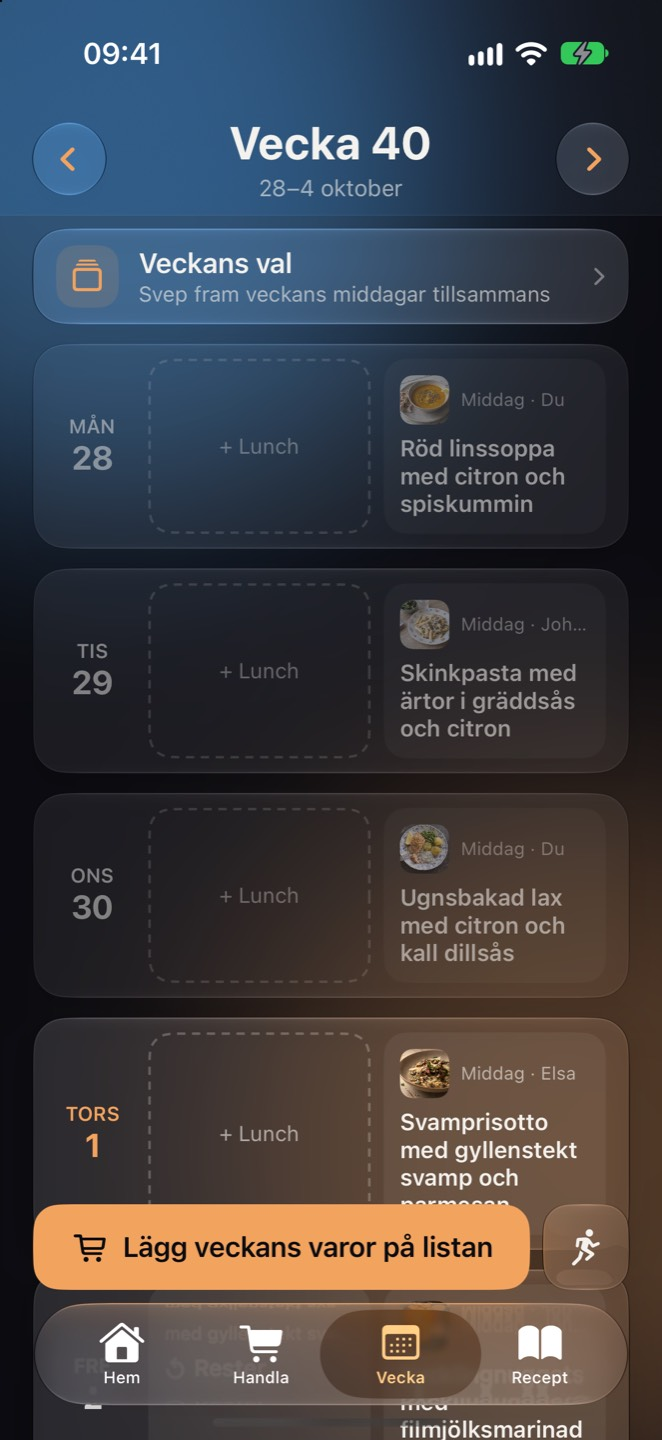
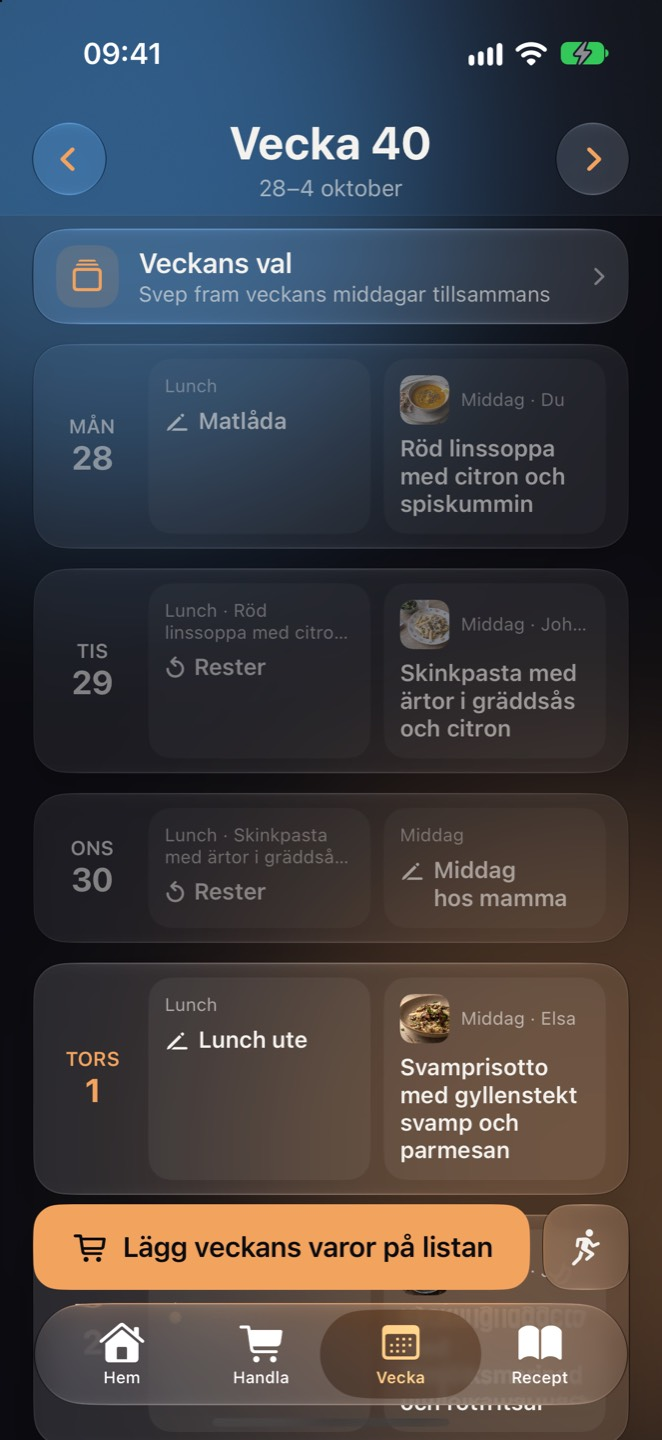
Luncher och rester i veckobilden

diff --git a/style.css b/style.css
@@ -1,1 +1,1 @@
-:root{color-scheme: dark;--ground: #0B0B10;--text: #F4F2EE;--text-2: rgba(244,242,238,0.66);--text-3: rgba(244,242,238,0.42);--accent: #F2A35E;--warm: #F2A35E;--cool: #5EAAF2;--green: #7ED4A6;--pink: #E88AB0;--glass: rgba(255,255,255,0.06);--glass-edge: rgba(255,255,255,0.12);--tone-a: var(--warm);--tone-b: var(--cool);--radius: 26px;--ease: cubic-bezier(.2,.8,.2,1)}*{box-sizing: border-box}html{scroll-behavior: smooth}body{margin: 0;background: var(--ground);color: var(--text);font: 17px/1.55 -apple-system,BlinkMacSystemFont,"SF Pro Text",Inter,"Segoe UI",system-ui,sans-serif;-webkit-font-smoothing: antialiased}html,body{overflow-x: hidden;overflow-x: clip}.hero,.split,.closing{overflow-x: clip}img{display: block;max-width: 100%;height: auto}a{color: inherit}h1,h2,h3{font-family: -apple-system,BlinkMacSystemFont,"SF Pro Display",Inter,system-ui,sans-serif;letter-spacing: -0.025em;margin: 0}.ambient{position: fixed;inset: -20vmax;z-index: -1;pointer-events: none;filter: blur(90px);opacity: .55}.ambient span{position: absolute;width: 60vmax;height: 60vmax;border-radius: 50%;transition: background 1.2s var(--ease);animation: drift 26s ease-in-out infinite alternate}.ambient span:nth-child(1){left: 0;top: 0;background: radial-gradient(closest-side,var(--tone-a),transparent)}.ambient span:nth-child(2){right: 0;bottom: 0;background: radial-gradient(closest-side,var(--tone-b),transparent);animation-delay: -13s;opacity: .7}@keyframes drift{to{transform: translate(8vmax,6vmax) scale(1.08)}}body[data-tone="cool"]{--tone-a: var(--cool);--tone-b: var(--warm)}body[data-tone="green"]{--tone-a: var(--green);--tone-b: var(--cool)}body[data-tone="pink"]{--tone-a: var(--pink);--tone-b: var(--warm)}.nav{position: fixed;top: 12px;left: 50%;transform: translateX(-50%);z-index: 10;width: min(1080px,calc(100% - 24px));display: flex;align-items: center;gap: 20px;padding: 10px 10px 10px 16px;border-radius: 22px;background: rgba(20,20,28,0.55);border: 1px solid var(--glass-edge);backdrop-filter: blur(24px) saturate(1.4);-webkit-backdrop-filter: blur(24px) saturate(1.4)}.nav .brand{display: flex;align-items: center;gap: 10px;font-weight: 700;font-size: 19px;text-decoration: none;letter-spacing: -0.02em}.brand-mark{width: 32px;height: 32px;border-radius: 10px;display: grid;place-items: center;background: rgba(242,163,94,0.18);border: 1px solid rgba(242,163,94,0.35);color: var(--accent)}.nav .links{display: flex;gap: 22px;margin-left: auto;font-size: 15px;color: var(--text-2)}.nav .links a{text-decoration: none;transition: color .2s}.nav .links a:hover{color: var(--text)}.nav .progress{position: absolute;left: 18px;right: 18px;bottom: -1px;height: 2px;border-radius: 2px;background: var(--accent);transform-origin: left;transform: scaleX(var(--progress,0));opacity: .8}.pill{display: inline-flex;align-items: center;gap: 8px;padding: 10px 18px;border-radius: 999px;font-weight: 600;font-size: 15px;text-decoration: none;white-space: nowrap}.pill.primary{background: var(--accent);color: var(--ground)}.pill.ghost{background: var(--glass);border: 1px solid var(--glass-edge);color: var(--text)}@media (max-width: 720px){.nav .links{display: none}.nav .pill{margin-left: auto}}@media (max-width: 360px){.nav{gap: 10px}.nav .pill{padding: 9px 14px;font-size: 14px}.nav .pill .more{display: none}}.hero{min-height: 100svh;display: grid;grid-template-columns: 1.05fr 1fr;align-items: center;gap: 40px;max-width: 1180px;margin: 0 auto;padding: 120px 24px 60px}.hero-copy{position: relative;z-index: 4}.eyebrow{color: var(--accent);font-weight: 600;font-size: 14px;letter-spacing: .14em;text-transform: uppercase}.hero h1{font-size: clamp(42px,5.6vw,80px);line-height: 1.02;margin: 18px 0 22px}.grad{background: linear-gradient(100deg,var(--warm),var(--pink) 55%,var(--cool));-webkit-background-clip: text;background-clip: text;color: transparent}.lead{font-size: clamp(18px,1.6vw,21px);color: var(--text-2);max-width: 30em;margin: 0 0 32px}.actions{display: flex;flex-wrap: wrap;gap: 12px}.actions .pill{padding: 14px 22px;font-size: 16px}.soon{cursor: default}.soon svg{width: 18px;height: 18px}.stage{position: relative;height: min(720px,78svh);perspective: 1400px}.stage .phone{position: absolute;top: 50%;left: 50%;width: min(300px,38vw);transform-style: preserve-3d;will-change: transform}.stage .phone.center{z-index: 3}.stage .phone.left,.stage .phone.right{z-index: 2;filter: brightness(.82)}@media (max-width: 900px){.hero{grid-template-columns: 1fr;text-align: left;padding-top: 110px}.stage{height: 560px}.stage .phone{width: 230px}}.phone{border-radius: 15.5% / 7.2%;padding: 3.2%;background: linear-gradient(145deg,#2a2a33,#111117 40%,#1d1d24);box-shadow: 0 40px 80px -20px rgba(0,0,0,.7),0 0 0 1px rgba(255,255,255,.08) inset,0 0 0 1px rgba(0,0,0,.6)}.phone img{display: block;width: 100%;height: auto;aspect-ratio: 662 / 1440;object-fit: cover;border-radius: 13% / 6%;background: #16161c}.phone picture{display: block}.strip{padding: 40px 0 20px;overflow: hidden}.strip .row{display: flex;gap: 16px;width: max-content;animation: slide 60s linear infinite}.strip .row + .row{margin-top: 16px;animation-direction: reverse;animation-duration: 70s}.strip img{width: 220px;height: 160px;object-fit: cover;border-radius: 22px}@keyframes slide{to{transform: translateX(-50%)}}.strip:hover .row{animation-play-state: paused}.caption{text-align: center;color: var(--text-3);font-size: 15px;margin-top: 22px}@media (max-width: 720px){.strip img{width: 160px;height: 120px;border-radius: 18px}}.statement{max-width: 1000px;margin: 0 auto;padding: 18vh 24px}.statement p{font-size: clamp(32px,4.6vw,60px);line-height: 1.12;font-weight: 700;letter-spacing: -0.025em;margin: 0}.statement .w{opacity: .16;transition: opacity .35s linear}.statement .w.on{opacity: 1}.statement .w.hl.on{color: var(--accent)}.story{position: relative;display: grid;grid-template-columns: 1fr 1fr;gap: 60px;max-width: 1120px;margin: 0 auto;padding: 0 24px}.story-phone{position: sticky;top: 0;height: 100svh;display: grid;place-items: center}.story-phone .phone{position: relative;width: min(320px,30vw,calc((100svh - 150px) * 0.46));margin-top: 40px}.story-phone .screens{position: relative}.story-phone .screens>*{display: block;opacity: 0;transform: scale(.96) translateY(10px);transition: opacity .6s var(--ease),transform .8s var(--ease)}.story-phone .screens>*:not(:first-child){position: absolute;inset: 0}.story-phone .screens>.active{opacity: 1;transform: none}.step{min-height: 100svh;display: flex;flex-direction: column;justify-content: center;padding: 10vh 0}.step .num{font-variant-numeric: tabular-nums;color: var(--accent);font-weight: 700;font-size: 15px;letter-spacing: .1em}.step h2{font-size: clamp(34px,4vw,52px);line-height: 1.05;margin: 12px 0 18px}.step p{color: var(--text-2);font-size: 19px;max-width: 26em;margin: 0}.step .tags{display: flex;flex-wrap: wrap;gap: 8px;margin-top: 24px}.step .tags span{padding: 7px 14px;border-radius: 999px;font-size: 14px;background: var(--glass);border: 1px solid var(--glass-edge);color: var(--text-2)}.step .inline{display: none}.step{opacity: .25;transition: opacity .5s var(--ease)}.step.active{opacity: 1}@media (max-width: 900px){.story{grid-template-columns: 1fr;gap: 0}.story-phone{display: none}.step{min-height: auto;padding: 60px 0;opacity: 1}.step .inline{display: block;width: min(300px,78vw);margin: 36px auto 0}}.split{display: grid;grid-template-columns: 1fr 1fr;align-items: center;gap: 60px;max-width: 1120px;margin: 0 auto;padding: 16vh 24px}.split h2{font-size: clamp(36px,4.4vw,58px);line-height: 1.04;margin: 14px 0 20px}.split p{color: var(--text-2);font-size: 19px;margin: 0 0 14px;max-width: 26em}.split .visual{position: relative;display: grid;place-items: center}.split .visual .phone{width: min(320px,70vw);transform: rotate(-4deg)}.chip{position: absolute;padding: 10px 16px;border-radius: 999px;font-weight: 600;font-size: 15px;background: rgba(30,30,40,.7);border: 1px solid var(--glass-edge);backdrop-filter: blur(16px);-webkit-backdrop-filter: blur(16px);white-space: nowrap}.chip.c1{top: 14%;left: 2%}.chip.c2{top: 46%;right: 0;color: var(--accent)}.chip.c3{bottom: 12%;left: 6%}@media (max-width: 900px){.split{grid-template-columns: 1fr;padding: 10vh 24px}.split .visual{order: -1;margin-bottom: 20px}}.values{max-width: 1120px;margin: 0 auto;padding: 8vh 24px 14vh}.values h2{font-size: clamp(32px,3.6vw,46px);text-align: center;margin-bottom: 44px}.grid{display: grid;grid-template-columns: repeat(4,1fr);gap: 16px}.card{padding: 26px;border-radius: var(--radius);background: var(--glass);border: 1px solid var(--glass-edge);backdrop-filter: blur(20px);-webkit-backdrop-filter: blur(20px);transition: transform .4s var(--ease),border-color .4s}.card:hover{transform: translateY(-4px);border-color: rgba(242,163,94,.35)}.card .icon{width: 44px;height: 44px;border-radius: 14px;display: grid;place-items: center;background: rgba(242,163,94,.14);color: var(--accent);margin-bottom: 18px}.card .icon svg{width: 22px;height: 22px}.card h3{font-size: 19px;margin-bottom: 8px;letter-spacing: -0.01em}.card p{margin: 0;color: var(--text-2);font-size: 15px}@media (max-width: 900px){.grid{grid-template-columns: 1fr 1fr}}@media (max-width: 560px){.grid{grid-template-columns: 1fr}}.closing{text-align: center;padding: 10vh 24px 16vh;max-width: 820px;margin: 0 auto}.closing .mark{width: 84px;height: 84px;border-radius: 26px;margin: 0 auto 28px;display: grid;place-items: center;color: var(--accent);background: linear-gradient(160deg,rgba(242,163,94,.35),rgba(242,163,94,.08));border: 1px solid rgba(242,163,94,.4);box-shadow: 0 20px 60px -10px rgba(242,163,94,.35)}.closing .mark svg{width: 40px;height: 40px}.closing h2{font-size: clamp(40px,6vw,76px);line-height: 1.02;margin-bottom: 20px}.closing p{color: var(--text-2);font-size: 19px;margin: 0 auto 30px;max-width: 32em}.closing .contact{color: var(--text);font-weight: 600;overflow-wrap: anywhere}footer{border-top: 1px solid rgba(255,255,255,.08);padding: 32px 24px 48px}footer .inner{max-width: 1120px;margin: 0 auto;display: flex;flex-wrap: wrap;gap: 16px 28px;align-items: center;color: var(--text-3);font-size: 14px}footer a{text-decoration: none;color: var(--text-2)}footer a:hover{color: var(--text)}footer .spacer{flex: 1}[data-reveal]{opacity: 0;transform: translateY(28px);transition: opacity .9s var(--ease),transform .9s var(--ease);transition-delay: var(--delay,0s)}[data-reveal].in{opacity: 1;transform: none}.legal{max-width: 720px;margin: 0 auto;padding: 130px 24px 90px;color: rgba(244,242,238,0.8)}.legal h1{font-size: clamp(36px,5vw,52px);color: var(--text);margin-bottom: 8px}.legal .date{color: var(--text-3);margin: 0 0 28px}.legal h2{font-size: 22px;color: var(--text);margin: 40px 0 10px;letter-spacing: -0.01em}.legal strong{color: var(--text)}.legal a{color: var(--accent)}.legal ul{padding-left: 1.2em}.legal li{margin: 8px 0}@media (prefers-reduced-motion: reduce){*,*::before,*::after{animation: none !important;transition: none !important}[data-reveal]{opacity: 1;transform: none}.statement .w{opacity: 1}}
+:root{color-scheme: dark;--ground: #0B0B10;--text: #F4F2EE;--text-2: rgba(244,242,238,0.66);--text-3: rgba(244,242,238,0.42);--accent: #F2A35E;--warm: #F2A35E;--cool: #5EAAF2;--green: #7ED4A6;--pink: #E88AB0;--glass: rgba(255,255,255,0.06);--glass-edge: rgba(255,255,255,0.12);--tone-a: var(--warm);--tone-b: var(--cool);--radius: 26px;--ease: cubic-bezier(.2,.8,.2,1)}*{box-sizing: border-box}html{scroll-behavior: smooth}body{margin: 0;background: var(--ground);color: var(--text);font: 17px/1.55 -apple-system,BlinkMacSystemFont,"SF Pro Text",Inter,"Segoe UI",system-ui,sans-serif;-webkit-font-smoothing: antialiased}html,body{overflow-x: hidden;overflow-x: clip}.hero,.split,.closing{overflow-x: clip}img{display: block;max-width: 100%;height: auto}a{color: inherit}h1,h2,h3{font-family: -apple-system,BlinkMacSystemFont,"SF Pro Display",Inter,system-ui,sans-serif;letter-spacing: -0.025em;margin: 0}.ambient{position: fixed;inset: -20vmax;z-index: -1;pointer-events: none;filter: blur(90px);opacity: .55}.ambient span{position: absolute;width: 60vmax;height: 60vmax;border-radius: 50%;transition: background 1.2s var(--ease);animation: drift 26s ease-in-out infinite alternate}.ambient span:nth-child(1){left: 0;top: 0;background: radial-gradient(closest-side,var(--tone-a),transparent)}.ambient span:nth-child(2){right: 0;bottom: 0;background: radial-gradient(closest-side,var(--tone-b),transparent);animation-delay: -13s;opacity: .7}@keyframes drift{to{transform: translate(8vmax,6vmax) scale(1.08)}}body[data-tone="cool"]{--tone-a: var(--cool);--tone-b: var(--warm)}body[data-tone="green"]{--tone-a: var(--green);--tone-b: var(--cool)}body[data-tone="pink"]{--tone-a: var(--pink);--tone-b: var(--warm)}.nav{position: fixed;top: 12px;left: 50%;transform: translateX(-50%);z-index: 10;width: min(1080px,calc(100% - 24px));display: flex;align-items: center;gap: 20px;padding: 10px 10px 10px 16px;border-radius: 22px;background: rgba(20,20,28,0.55);border: 1px solid var(--glass-edge);backdrop-filter: blur(24px) saturate(1.4);-webkit-backdrop-filter: blur(24px) saturate(1.4)}.nav .brand{display: flex;align-items: center;gap: 10px;font-weight: 700;font-size: 19px;text-decoration: none;letter-spacing: -0.02em}.brand-mark{width: 32px;height: 32px;border-radius: 10px;display: grid;place-items: center;background: rgba(242,163,94,0.18);border: 1px solid rgba(242,163,94,0.35);color: var(--accent)}.nav .links{display: flex;gap: 22px;margin-left: auto;font-size: 15px;color: var(--text-2)}.nav .links a{text-decoration: none;transition: color .2s}.nav .links a:hover{color: var(--text)}.nav .progress{position: absolute;left: 18px;right: 18px;bottom: -1px;height: 2px;border-radius: 2px;background: var(--accent);transform-origin: left;transform: scaleX(var(--progress,0));opacity: .8}.pill{display: inline-flex;align-items: center;gap: 8px;padding: 10px 18px;border-radius: 999px;font-weight: 600;font-size: 15px;text-decoration: none;white-space: nowrap}.pill.primary{background: var(--accent);color: var(--ground)}.pill.ghost{background: var(--glass);border: 1px solid var(--glass-edge);color: var(--text)}.nav .pill{gap: .28em}@media (max-width: 720px){.nav .links{display: none}.nav .pill{margin-left: auto}}@media (max-width: 360px){.nav{gap: 10px}.nav .pill{padding: 9px 14px;font-size: 14px}.nav .pill .more{display: none}}.hero{min-height: 100svh;display: grid;grid-template-columns: 1.05fr 1fr;align-items: center;gap: 40px;max-width: 1180px;margin: 0 auto;padding: 120px 24px 60px}.hero-copy{position: relative;z-index: 4}.eyebrow{color: var(--accent);font-weight: 600;font-size: 14px;letter-spacing: .14em;text-transform: uppercase}.hero h1{font-size: clamp(42px,5.6vw,80px);line-height: 1.02;margin: 18px 0 22px}.grad{background: linear-gradient(100deg,var(--warm),var(--pink) 55%,var(--cool));-webkit-background-clip: text;background-clip: text;color: transparent}.lead{font-size: clamp(18px,1.6vw,21px);color: var(--text-2);max-width: 30em;margin: 0 0 32px}.actions{display: flex;flex-wrap: wrap;gap: 12px}.actions .pill{padding: 14px 22px;font-size: 16px}.soon{cursor: default}.soon svg{width: 18px;height: 18px}.stage{position: relative;height: min(720px,78svh);perspective: 1400px}.stage .phone{position: absolute;top: 50%;left: 50%;width: min(300px,38vw);transform-style: preserve-3d;will-change: transform}.stage .phone.center{z-index: 3}.stage .phone.left,.stage .phone.right{z-index: 2;filter: brightness(.82)}@media (max-width: 900px){.hero{grid-template-columns: 1fr;text-align: left;padding-top: 110px}.stage{height: 560px}.stage .phone{width: 230px}}.phone{border-radius: 15.5% / 7.2%;padding: 3.2%;background: linear-gradient(145deg,#2a2a33,#111117 40%,#1d1d24);box-shadow: 0 40px 80px -20px rgba(0,0,0,.7),0 0 0 1px rgba(255,255,255,.08) inset,0 0 0 1px rgba(0,0,0,.6)}.phone img{display: block;width: 100%;height: auto;aspect-ratio: 662 / 1440;object-fit: cover;border-radius: 13% / 6%;background: #16161c}.phone picture{display: block}.strip{padding: 40px 0 20px;overflow: hidden}.strip .row{display: flex;gap: 16px;width: max-content;animation: slide 60s linear infinite}.strip .row + .row{margin-top: 16px;animation-direction: reverse;animation-duration: 70s}.strip img{width: 220px;height: 160px;object-fit: cover;border-radius: 22px}@keyframes slide{to{transform: translateX(-50%)}}.strip:hover .row{animation-play-state: paused}.caption{text-align: center;color: var(--text-3);font-size: 15px;margin-top: 22px}@media (max-width: 720px){.strip img{width: 160px;height: 120px;border-radius: 18px}}.statement{max-width: 1000px;margin: 0 auto;padding: 18vh 24px}.statement p{font-size: clamp(32px,4.6vw,60px);line-height: 1.12;font-weight: 700;letter-spacing: -0.025em;margin: 0}.statement .w{opacity: .16;transition: opacity .35s linear}.statement .w.on{opacity: 1}.statement .w.hl.on{color: var(--accent)}.story{position: relative;display: grid;grid-template-columns: 1fr 1fr;gap: 60px;max-width: 1120px;margin: 0 auto;padding: 0 24px}.story-phone{position: sticky;top: 0;height: 100svh;display: grid;place-items: center}.story-phone .phone{position: relative;width: min(320px,30vw,calc((100svh - 150px) * 0.46));margin-top: 40px}.story-phone .screens{position: relative}.story-phone .screens>*{display: block;opacity: 0;transform: scale(.96) translateY(10px);transition: opacity .6s var(--ease),transform .8s var(--ease)}.story-phone .screens>*:not(:first-child){position: absolute;inset: 0}.story-phone .screens>.active{opacity: 1;transform: none}.step{min-height: 100svh;display: flex;flex-direction: column;justify-content: center;padding: 10vh 0}.step .num{font-variant-numeric: tabular-nums;color: var(--accent);font-weight: 700;font-size: 15px;letter-spacing: .1em}.step h2{font-size: clamp(34px,4vw,52px);line-height: 1.05;margin: 12px 0 18px}.step p{color: var(--text-2);font-size: 19px;max-width: 26em;margin: 0}.step .tags{display: flex;flex-wrap: wrap;gap: 8px;margin-top: 24px}.step .tags span{padding: 7px 14px;border-radius: 999px;font-size: 14px;background: var(--glass);border: 1px solid var(--glass-edge);color: var(--text-2)}.step .inline{display: none}.step{opacity: .25;transition: opacity .5s var(--ease)}.step.active{opacity: 1}@media (max-width: 900px){.story{grid-template-columns: 1fr;gap: 0}.story-phone{display: none}.step{min-height: auto;padding: 60px 0;opacity: 1}.step .inline{display: block;width: min(300px,78vw);margin: 36px auto 0}}.split{display: grid;grid-template-columns: 1fr 1fr;align-items: center;gap: 60px;max-width: 1120px;margin: 0 auto;padding: 16vh 24px}.split h2{font-size: clamp(36px,4.4vw,58px);line-height: 1.04;margin: 14px 0 20px}.split p{color: var(--text-2);font-size: 19px;margin: 0 0 14px;max-width: 26em}.split .visual{position: relative;display: grid;place-items: center}.split .visual .phone{width: min(320px,70vw);transform: rotate(-4deg)}.chip{position: absolute;padding: 10px 16px;border-radius: 999px;font-weight: 600;font-size: 15px;background: rgba(30,30,40,.7);border: 1px solid var(--glass-edge);backdrop-filter: blur(16px);-webkit-backdrop-filter: blur(16px);white-space: nowrap}.chip.c1{top: 14%;left: 2%}.chip.c2{top: 46%;right: 0;color: var(--accent)}.chip.c3{bottom: 12%;left: 6%}@media (max-width: 900px){.split{grid-template-columns: 1fr;padding: 10vh 24px}.split .visual{order: -1;margin-bottom: 20px}}.values{max-width: 1120px;margin: 0 auto;padding: 8vh 24px 14vh}.values h2{font-size: clamp(32px,3.6vw,46px);text-align: center;margin-bottom: 44px}.grid{display: grid;grid-template-columns: repeat(4,1fr);gap: 16px}.card{padding: 26px;border-radius: var(--radius);background: var(--glass);border: 1px solid var(--glass-edge);backdrop-filter: blur(20px);-webkit-backdrop-filter: blur(20px);transition: transform .4s var(--ease),border-color .4s}.card:hover{transform: translateY(-4px);border-color: rgba(242,163,94,.35)}.card .icon{width: 44px;height: 44px;border-radius: 14px;display: grid;place-items: center;background: rgba(242,163,94,.14);color: var(--accent);margin-bottom: 18px}.card .icon svg{width: 22px;height: 22px}.card h3{font-size: 19px;margin-bottom: 8px;letter-spacing: -0.01em}.card p{margin: 0;color: var(--text-2);font-size: 15px}@media (max-width: 900px){.grid{grid-template-columns: 1fr 1fr}}@media (max-width: 560px){.grid{grid-template-columns: 1fr}}.closing{text-align: center;padding: 10vh 24px 16vh;max-width: 820px;margin: 0 auto}.closing .mark{width: 84px;height: 84px;border-radius: 26px;margin: 0 auto 28px;display: grid;place-items: center;color: var(--accent);background: linear-gradient(160deg,rgba(242,163,94,.35),rgba(242,163,94,.08));border: 1px solid rgba(242,163,94,.4);box-shadow: 0 20px 60px -10px rgba(242,163,94,.35)}.closing .mark svg{width: 40px;height: 40px}.closing h2{font-size: clamp(40px,6vw,76px);line-height: 1.02;margin-bottom: 20px}.closing p{color: var(--text-2);font-size: 19px;margin: 0 auto 30px;max-width: 32em}.closing .contact{color: var(--text);font-weight: 600;overflow-wrap: anywhere}footer{border-top: 1px solid rgba(255,255,255,.08);padding: 32px 24px 48px}footer .inner{max-width: 1120px;margin: 0 auto;display: flex;flex-wrap: wrap;gap: 16px 28px;align-items: center;color: var(--text-3);font-size: 14px}footer a{text-decoration: none;color: var(--text-2)}footer a:hover{color: var(--text)}footer .spacer{flex: 1}[data-reveal]{opacity: 0;transform: translateY(28px);transition: opacity .9s var(--ease),transform .9s var(--ease);transition-delay: var(--delay,0s)}[data-reveal].in{opacity: 1;transform: none}.legal{max-width: 720px;margin: 0 auto;padding: 130px 24px 90px;color: rgba(244,242,238,0.8)}.legal h1{font-size: clamp(36px,5vw,52px);color: var(--text);margin-bottom: 8px}.legal .date{color: var(--text-3);margin: 0 0 28px}.legal h2{font-size: 22px;color: var(--text);margin: 40px 0 10px;letter-spacing: -0.01em}.legal strong{color: var(--text)}.legal a{color: var(--accent)}.legal ul{padding-left: 1.2em}.legal li{margin: 8px 0}@media (prefers-reduced-motion: reduce){*,*::before,*::after{animation: none !important;transition: none !important}[data-reveal]{opacity: 1;transform: none}.statement .w{opacity: 1}}

diff --git a/index.html b/index.html
@@ -25,7 +25,7 @@
     <a href="#varfor">Varför Husfrid</a>
     <a href="integritetspolicy">Integritet</a>
   </nav>
-  <a class="pill primary" href="#snart">Snart<span class="more">&nbsp;till iPhone</span></a>
+  <a class="pill primary" href="#snart">Snart<span class="more">till iPhone</span></a>
   <div class="progress" aria-hidden="true"></div>
 </header>
 
